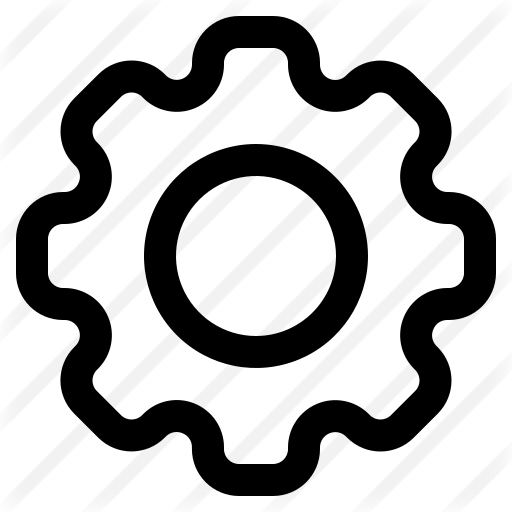
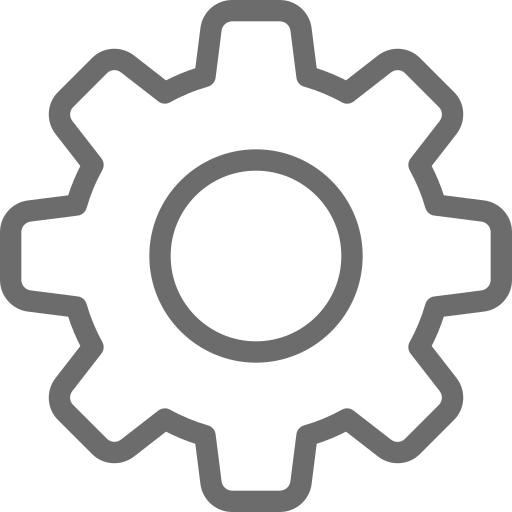
설정버튼 수정

diff --git a/mypage.html b/mypage.html
@@ -71,7 +71,7 @@
                 <a href="waf-madang.html">와플마당</a>
             </div>
             <div class="corner-bottom">
-                <img  class="settings" src="image/settings 2.png" alt="">
+                <img  class="settings" src="image/settings.png" alt="">
             </div>
         </div>
     </div>

diff --git a/mypage.css b/mypage.css
@@ -232,7 +232,7 @@ body{
     color: #949494;
 }
 .settings{
-    width: 40px;
+    width: 50px;
     position: fixed;
     right: 8px;
     bottom: 8px;
